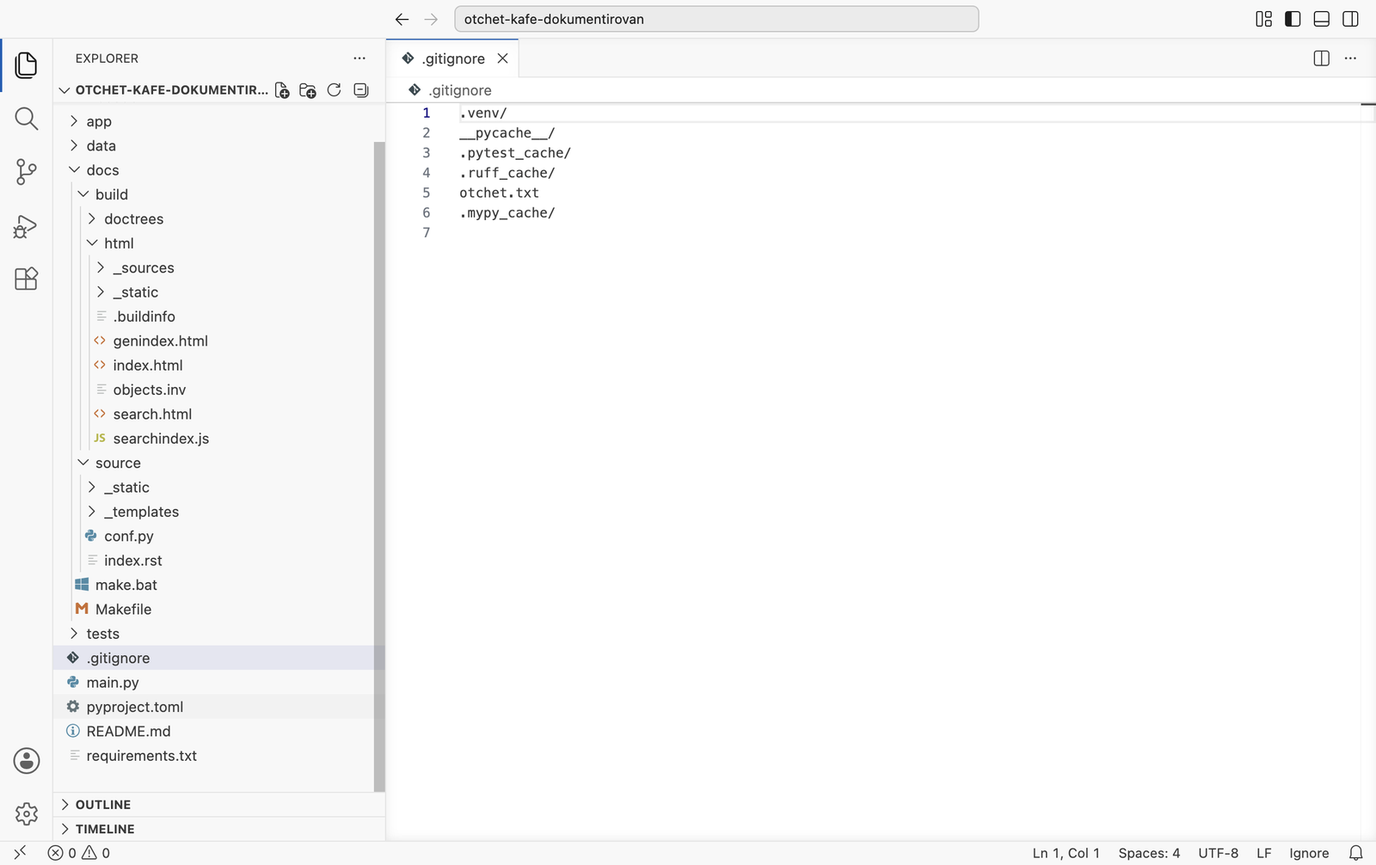
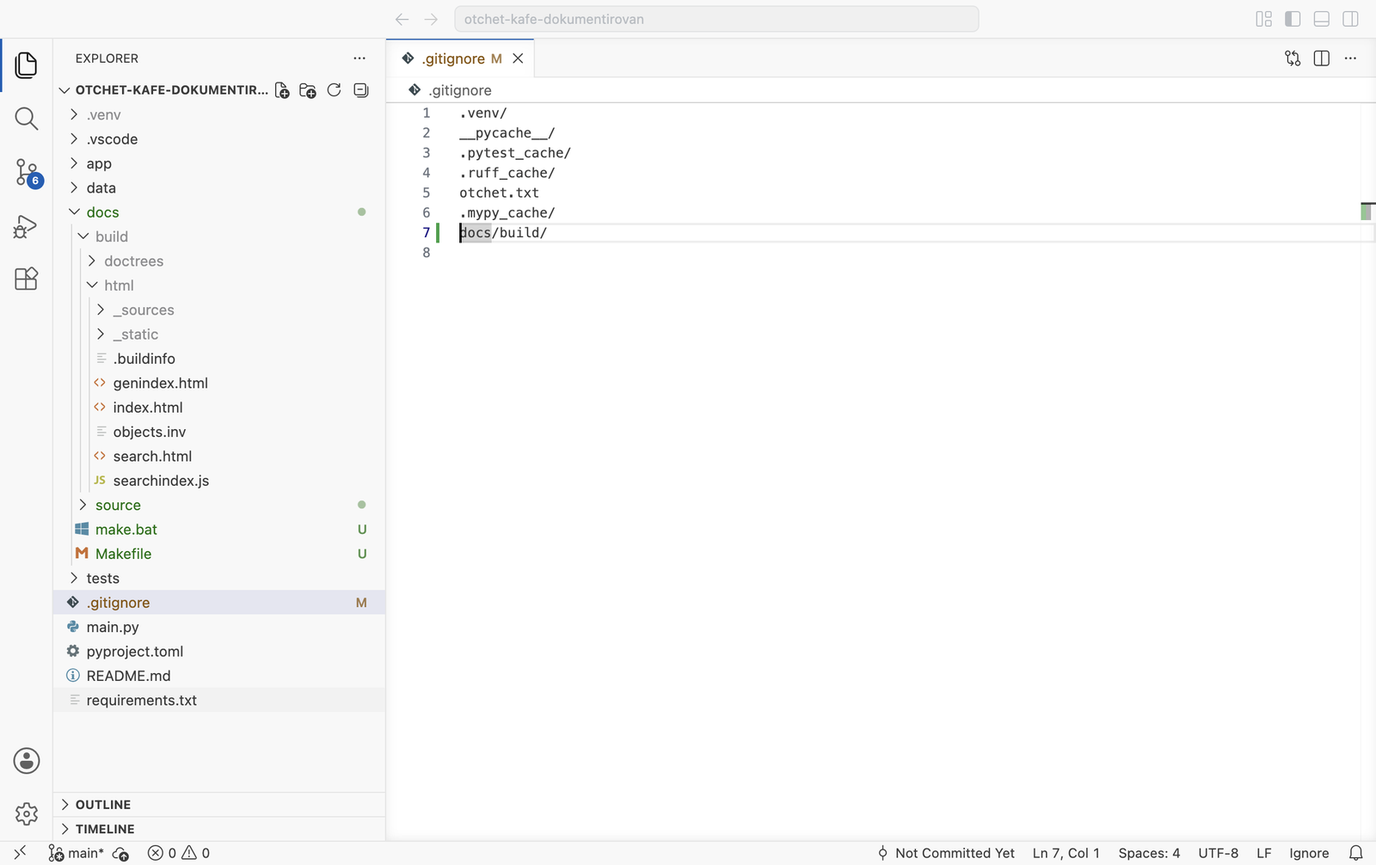
МДК.01.01 тема 04: 4.12 §7 — строка docs/build/ в .gitignore по шагам с кадрами Source Control до и после (в третьем архиве её нет, подпись исправлена); 4.14 §7 — раздел «Указатели» в index.rst и путь к указателю и поиску по шагам

diff --git a/mdk0101-razrabotka-modulei/lessons/04-docstrings-i-dokumentaciya/14-rst-i-apidoc.html b/mdk0101-razrabotka-modulei/lessons/04-docstrings-i-dokumentaciya/14-rst-i-apidoc.html
@@ -24,7 +24,7 @@
         <header class="chapter-head">
           <span class="chapter-num">4.14</span>
           <h1>Файлы .rst, automodule<br>и sphinx-apidoc</h1>
-          <p class="lead">В этой главе на сайте «Отчёта кафе» появляются все пакеты проекта. Сначала пишется своя страница «Запуск и проверки» в разметке reStructuredText и подключается к оглавлению. Затем страницы для всех модулей создаёт программа <code>sphinx-apidoc</code>, и по дороге исправляются два её предупреждения. В конце — как держать эти страницы в согласии с кодом, когда модули добавляют и удаляют. Каждый шаг показан кадром.</p>
+          <p class="lead">В этой главе на сайте «Отчёта кафе» появляются все пакеты проекта. Сначала пишется своя страница «Запуск и проверки» в разметке reStructuredText и подключается к оглавлению. Затем страницы для всех модулей создаёт программа <code>sphinx-apidoc</code>, и по дороге исправляются два её предупреждения. Затем — как держать эти страницы в согласии с кодом, когда модули добавляют и удаляют, и как добавить на главную ссылки на алфавитный указатель и поиск. Каждый шаг показан кадром.</p>
         </header>
 
         <dl class="passport">
@@ -365,15 +365,65 @@
         </div>
 
         <h2 id="s7"><span class="sec">§7</span>Указатель и поиск</h2>
-        <p>Две страницы Sphinx строит по всем описанным объектам без отдельных файлов <code>.rst</code>: алфавитный указатель и поиск. Теперь, когда на сайте весь пакет, они полезны.</p>
-        <figure class="shot">
-          <img src="img/site-14-genindex.png" alt="Алфавитный указатель: буквы сверху, под буквой A метод add класса Shift и модули app">
-          <figcaption>Алфавитный указатель: функции, методы, классы и модули по алфавиту; в скобках — где объект описан. Помогает, когда известно имя функции, а модуль — нет.</figcaption>
-        </figure>
-        <figure class="shot">
-          <img src="img/site-14-search.png" alt="Поиск по слову выручка: найдены страницы пакетов, Запуск и проверки и главная">
-          <figcaption>Поиск по слову «выручка»: найдены пять страниц, в том числе с формами «выручку» и «выручке» — поиск учитывает окончания русских слов.</figcaption>
-        </figure>
+        <p>Кроме страниц из оглавления, Sphinx при каждой сборке строит ещё три: алфавитный указатель <code>genindex.html</code>, список модулей <code>py-modindex.html</code> и поиск <code>search.html</code>. Их видно в проводнике в <code>docs/build/html</code>, но ссылок на указатель и список модулей на сайте нет: мастер Sphinx 9 их не добавляет. Пока на сайте был один модуль, это было незаметно; теперь, когда описан весь пакет, без указателя функцию приходится искать по страницам пакетов. Ссылки добавляют в <code>index.rst</code> сами. Пять шагов.</p>
+        <div class="walk">
+          <div class="walk__step">
+            <p class="walk__head"><span>Добавьте раздел «Указатели» в index.rst</span></p>
+            <div class="walk__body">
+              <p>В конец <code>index.rst</code>, после оглавления, допишите раздел из трёх пунктов:</p>
+              <figure class="code">
+                <figcaption><span>docs/source/index.rst</span><span>в конце файла</span></figcaption>
+<pre>Указатели
+---------
+
+* <span class="f">:ref:</span>`genindex`
+* <span class="f">:ref:</span>`modindex`
+* <span class="f">:ref:</span>`search`</pre>
+              </figure>
+              <figure class="shot">
+                <img src="img/vscode-sphinx-14-index-indices.png" alt="VS Code: index.rst, после оглавления раздел Указатели с тремя пунктами :ref:genindex, :ref:modindex, :ref:search">
+                <figcaption>Строки <code>21</code>–<code>26</code>: заголовок раздела с чертой <code>-</code> и три пункта. Роль <code>:ref:</code> — ссылка на место в документации; <code>genindex</code>, <code>modindex</code> и <code>search</code> — имена трёх страниц, которые Sphinx строит сам. Подписи ссылок он тоже поставит сам, на языке из <code>conf.py</code>.</figcaption>
+              </figure>
+            </div>
+          </div>
+          <div class="walk__step">
+            <p class="walk__head"><span>Соберите</span></p>
+            <div class="walk__body">
+              <figure class="shot">
+                <img src="img/vscode-sphinx-14-build-indices.png" alt="Терминал: сборка с -q, вывод пуст">
+                <figcaption>Вывод пуст: все три имени Sphinx нашёл.</figcaption>
+              </figure>
+            </div>
+          </div>
+          <div class="walk__step">
+            <p class="walk__head"><span>Найдите ссылки на главной странице</span></p>
+            <div class="walk__body">
+              <figure class="shot">
+                <img src="img/site-14-index-links.png" alt="Главная страница: под содержанием раздел Указатели со ссылками Алфавитный указатель, Состав модуля, Поиск">
+                <figcaption>Под оглавлением — раздел «Указатели»: <b>Алфавитный указатель</b>, <b>Состав модуля</b> (список всех модулей пакета) и <b>Поиск</b>.</figcaption>
+              </figure>
+            </div>
+          </div>
+          <div class="walk__step">
+            <p class="walk__head"><span>Откройте алфавитный указатель</span></p>
+            <div class="walk__body">
+              <figure class="shot">
+                <img src="img/site-14-genindex.png" alt="Алфавитный указатель: буквы сверху, под буквой A метод add класса Shift и модули app">
+                <figcaption>Функции, методы, классы и модули по алфавиту; сверху — строка букв для перехода. В скобках после имени — где объект описан: <code>add() (метод app.domain.shift.Shift)</code>. Указатель помогает, когда известно имя функции, а модуль — нет.</figcaption>
+              </figure>
+            </div>
+          </div>
+          <div class="walk__step">
+            <p class="walk__head"><span>Найдите слово через поиск</span></p>
+            <div class="walk__body">
+              <p>Введите слово в поле поиска в колонке слева и нажмите <kbd>Enter</kbd> — или перейдите по ссылке «Поиск» из раздела «Указатели».</p>
+              <figure class="shot">
+                <img src="img/site-14-search.png" alt="Поиск по слову выручка: найдены страницы пакетов, Запуск и проверки и главная">
+                <figcaption>Поиск по слову «выручка»: найдены пять страниц, в том числе с формами «выручку» и «выручке» — поиск учитывает окончания русских слов. Работает без сервера, по файлу <code>searchindex.js</code>.</figcaption>
+              </figure>
+            </div>
+          </div>
+        </div>
 
         <div class="state state--next">
           <b>Что дальше · глава 4.15</b>
@@ -435,7 +485,7 @@
         </div>
 
         <h3>Итог главы</h3>
-        <p>Свою страницу пишут в reStructuredText: заголовки с чертой, списки, блок <code>code-block</code>, врезка <code>note</code>, ссылки на функции ролью <code>:func:</code>. Страница видна на сайте, если её имя стоит в <code>toctree</code>. Страницы для всех модулей создаёт <code>sphinx-apidoc</code>; в курсе её запускают с <code>SPHINX_APIDOC_OPTIONS=members</code> и ключами <code>-f -M</code>, а дерево подключают строкой <code>api/modules</code>. Повтор полей dataclass убирает <code>napoleon_use_ivar = True</code>. После добавления или удаления модуля команду повторяют с <code>-f</code>, а перед сборкой проверяют Ruff: функции без докстринга на сайт не попадают. В главе 4.15 сайт получает новую тему и публикуется на GitHub Pages.</p>
+        <p>Свою страницу пишут в reStructuredText: заголовки с чертой, списки, блок <code>code-block</code>, врезка <code>note</code>, ссылки на функции ролью <code>:func:</code>. Страница видна на сайте, если её имя стоит в <code>toctree</code>. Страницы для всех модулей создаёт <code>sphinx-apidoc</code>; в курсе её запускают с <code>SPHINX_APIDOC_OPTIONS=members</code> и ключами <code>-f -M</code>, а дерево подключают строкой <code>api/modules</code>. Повтор полей dataclass убирает <code>napoleon_use_ivar = True</code>. После добавления или удаления модуля команду повторяют с <code>-f</code>, а перед сборкой проверяют Ruff: функции без докстринга на сайт не попадают. Ссылки на алфавитный указатель, список модулей и поиск добавляют в <code>index.rst</code> ролью <code>:ref:</code> — сам мастер их не пишет. В главе 4.15 сайт получает новую тему и публикуется на GitHub Pages.</p>
 
         <div class="sources">
           <b>Откуда взяты факты</b>

diff --git a/mdk0101-razrabotka-modulei/lessons/04-docstrings-i-dokumentaciya/12-sphinx-pervyy-zapusk.html b/mdk0101-razrabotka-modulei/lessons/04-docstrings-i-dokumentaciya/12-sphinx-pervyy-zapusk.html
@@ -291,15 +291,47 @@
         </div>
 
         <h2 id="s7"><span class="sec">§7</span>Папка docs и репозиторий</h2>
-        <p>Перед первым коммитом нужно решить, что из <code>docs</code> попадёт в Git. <code>docs/source</code>, <code>Makefile</code> и <code>make.bat</code> пишутся руками — их хранят. <code>docs/build</code> получается из них одной командой — её в Git не кладут: каждая сборка меняет в ней десятки файлов. Два шага.</p>
+        <p>Перед первым коммитом нужно решить, что из <code>docs</code> попадёт в Git. <code>docs/source</code>, <code>Makefile</code> и <code>make.bat</code> пишутся руками — их хранят. <code>docs/build</code> получается из них одной командой — её в Git не кладут: каждая сборка меняет в ней десятки файлов, которых никто не писал. Кадры сняты на проекте, который уже лежит в репозитории: один коммит с проектом из главы 4.11 и новая папка <code>docs</code>. Если вы работаете в распакованном архиве, папка не под Git; панель Source Control тогда предложит <b>Initialize Repository</b>, и после этого картина будет та же. Пять шагов.</p>
         <div class="walk">
           <div class="walk__step">
-            <p class="walk__head"><span>Проверьте .gitignore</span></p>
+            <p class="walk__head"><span>Посмотрите изменения в Source Control</span></p>
             <div class="walk__body">
-              <p>Откройте <code>.gitignore</code> в корне проекта.</p>
+              <p>Откройте панель Source Control: значок с ветками на левой полосе или <kbd><span data-os="win linux">Ctrl</span><span data-os="mac">Cmd</span></kbd> + <kbd>Shift</kbd> + <kbd>G</kbd>.</p>
+              <figure class="shot shot--narrow">
+                <img src="img/vscode-sphinx-12-scm-before.png" alt="Source Control: Changes 30, среди них make.bat, Makefile, environment.pickle, index.doctree, .buildinfo, genindex.html, index.html и другие файлы docs/build">
+                <figcaption>В списке <b>Changes</b> — <code>30</code> новых файлов с меткой <code>U</code> (untracked, не отслеживаются). Кроме <code>make.bat</code> и <code>Makefile</code> здесь <code>environment.pickle</code>, <code>index.doctree</code>, <code>genindex.html</code>, <code>index.html</code> — всё из <code>docs/build</code>. Если закоммитить так, результат сборки окажется в репозитории.</figcaption>
+              </figure>
+            </div>
+          </div>
+          <div class="walk__step">
+            <p class="walk__head"><span>Откройте .gitignore</span></p>
+            <div class="walk__body">
               <figure class="shot">
-                <img src="img/vscode-sphinx-12-gitignore.png" alt="VS Code: файл .gitignore, последняя строка docs/build/">
-                <figcaption>Последняя строка — <code>docs/build/</code>: в третьем архиве она уже есть. Если вы работаете в своей папке, допишите её.</figcaption>
+                <img src="img/vscode-sphinx-12-gitignore-before.png" alt="VS Code: файл .gitignore из шести строк: .venv/, __pycache__/, .pytest_cache/, .ruff_cache/, otchet.txt, .mypy_cache/">
+                <figcaption>В <code>.gitignore</code> шесть строк: окружение, кэши Python и проверок, файл отчёта. Строки для <code>docs/build</code> нет — папки сборки до этой главы не было.</figcaption>
+              </figure>
+            </div>
+          </div>
+          <div class="walk__step">
+            <p class="walk__head"><span>Добавьте строку docs/build/</span></p>
+            <div class="walk__body">
+              <p>Допишите в конец <code>docs/build/</code> и сохраните файл. Косая черта в конце означает «папка целиком».</p>
+              <figure class="shot">
+                <img src="img/vscode-sphinx-12-gitignore.png" alt="VS Code: .gitignore, строка 7 docs/build/, у файла в проводнике метка M">
+                <figcaption>Строка <code>7</code> — <code>docs/build/</code>. У <code>.gitignore</code> в проводнике метка <code>M</code> (modified): файл изменён. Папка <code>build</code> в проводнике стала бледной.</figcaption>
+              </figure>
+            </div>
+          </div>
+          <div class="walk__step">
+            <p class="walk__head"><span>Проверьте проводник и Source Control</span></p>
+            <div class="walk__body">
+              <figure class="shot shot--narrow">
+                <img src="img/vscode-sphinx-12-build-ignored.png" alt="Проводник: папка docs/build и всё в ней показаны бледным без меток, make.bat и Makefile с меткой U">
+                <figcaption>В проводнике <code>build</code> и всё внутри бледные и без меток: так VS Code показывает файлы, которые Git пропускает. У <code>make.bat</code> и <code>Makefile</code> по-прежнему <code>U</code> — они пойдут в коммит.</figcaption>
+              </figure>
+              <figure class="shot shot--narrow">
+                <img src="img/vscode-sphinx-12-scm-after.png" alt="Source Control: Changes 6 — .gitignore с меткой M, make.bat, Makefile, conf.py, index.rst, .gitkeep с меткой U">
+                <figcaption>В <b>Changes</b> теперь <code>6</code>: изменённый <code>.gitignore</code> и пять файлов, которые пишут руками, — <code>make.bat</code>, <code>Makefile</code>, <code>conf.py</code>, <code>index.rst</code> и <code>.gitkeep</code> из следующего шага. Файлов из <code>docs/build</code> в списке нет.</figcaption>
               </figure>
             </div>
           </div>
@@ -309,7 +341,7 @@
               <p>Папка <code>docs/source/_static</code> пуста, а пустые папки Git не хранит. В копии проекта, скачанной из репозитория, её не будет, и сборка напечатает <code>WARNING: элемент html_static_path '_static' не существует</code>. Чтобы папка попала в репозиторий, в неё кладут пустой файл: правая кнопка на <code>_static</code> → <b>New File</b> → <code>.gitkeep</code>.</p>
               <figure class="shot">
                 <img src="img/vscode-sphinx-12-gitkeep.png" alt="VS Code: в проводнике в папке docs/source/_static появился файл .gitkeep, он открыт и пуст">
-                <figcaption>В <code>_static</code> появился пустой <code>.gitkeep</code>. Для Git имя ничего не значит; это соглашение: файл держит папку в репозитории.</figcaption>
+                <figcaption>В <code>_static</code> появился пустой <code>.gitkeep</code>. Для Git имя ничего не значит; это соглашение: файл держит папку в репозитории. В Source Control он стоит последним в списке из шести.</figcaption>
               </figure>
             </div>
           </div>
@@ -317,7 +349,7 @@
 
         <div class="milestone">
           <b>Итог главы · сайт собирается</b>
-          <p>В проекте есть папка <code>docs</code>. Команда <code>sphinx-build -M html docs/source docs/build</code> отвечает <code>сборка успешна.</code>, главная страница со своим текстом открывается в браузере. <code>docs/build</code> исключена из Git, в <code>_static</code> лежит <code>.gitkeep</code>.</p>
+          <p>В проекте есть папка <code>docs</code>. Команда <code>sphinx-build -M html docs/source docs/build</code> отвечает <code>сборка успешна.</code>, главная страница со своим текстом открывается в браузере. В <code>.gitignore</code> добавлена строка <code>docs/build/</code>, и в Source Control из <code>docs</code> видны только файлы, которые пишут руками; в <code>_static</code> лежит <code>.gitkeep</code>.</p>
         </div>
 
         <div class="state state--next">
@@ -381,7 +413,7 @@
         </div>
 
         <h3>Итог главы</h3>
-        <p>Sphinx собирает сайт документации из файлов reStructuredText и докстрингов и ставится в окружение проекта. Мастер <code>sphinx-quickstart docs</code> создаёт папки <code>docs/source</code> и <code>docs/build</code>, файл настроек <code>conf.py</code> и главную страницу <code>index.rst</code>. Команда <code>sphinx-build -M html docs/source docs/build</code> собирает сайт в <code>docs/build/html</code>, он открывается в браузере с диска. Повторная сборка пересобирает только изменённые файлы, ключ <code>-E</code> — все. В репозиторий идут исходники документации: <code>docs/build</code> исключена в <code>.gitignore</code>, пустую <code>_static</code> держит файл <code>.gitkeep</code>. В главе 4.13 на сайт выводятся докстринги модулей.</p>
+        <p>Sphinx собирает сайт документации из файлов reStructuredText и докстрингов и ставится в окружение проекта. Мастер <code>sphinx-quickstart docs</code> создаёт папки <code>docs/source</code> и <code>docs/build</code>, файл настроек <code>conf.py</code> и главную страницу <code>index.rst</code>. Команда <code>sphinx-build -M html docs/source docs/build</code> собирает сайт в <code>docs/build/html</code>, он открывается в браузере с диска. Повторная сборка пересобирает только изменённые файлы, ключ <code>-E</code> — все. В репозиторий идут исходники документации: строка <code>docs/build/</code> в <code>.gitignore</code> убирает результат сборки из Source Control, пустую <code>_static</code> держит файл <code>.gitkeep</code>. В главе 4.13 на сайт выводятся докстринги модулей.</p>
 
         <div class="sources">
           <b>Откуда взяты факты</b>

diff --git a/mdk0101-razrabotka-modulei/lessons/04-docstrings-i-dokumentaciya/16-praktika-sphinx.html b/mdk0101-razrabotka-modulei/lessons/04-docstrings-i-dokumentaciya/16-praktika-sphinx.html
@@ -171,7 +171,7 @@
           <div class="walk__step">
             <p class="walk__head"><span>Добавьте страницу о запуске и тему</span></p>
             <div class="walk__body">
-              <p>Создайте <code>usage.rst</code> по образцу главы 4.14, §1, поставьте его первым в оглавлении. Замените заголовок и абзац в <code>index.rst</code> на свои. Задайте <code>html_theme = 'furo'</code> и <code>html_title</code>, создайте <code>docs/requirements.txt</code>. Финальная проверка — строгая сборка: <code>sphinx-build -M html docs/source docs/build -E -W --keep-going</code>, итог — <code>сборка успешна.</code></p>
+              <p>Создайте <code>usage.rst</code> по образцу главы 4.14, §1, поставьте его первым в оглавлении. Замените заголовок и абзац в <code>index.rst</code> на свои и добавьте раздел «Указатели» из главы 4.14, §7. Задайте <code>html_theme = 'furo'</code> и <code>html_title</code>, создайте <code>docs/requirements.txt</code>. Финальная проверка — строгая сборка: <code>sphinx-build -M html docs/source docs/build -E -W --keep-going</code>, итог — <code>сборка успешна.</code></p>
             </div>
           </div>
         </div>

diff --git a/mdk0101-razrabotka-modulei/lessons/04-docstrings-i-dokumentaciya/shots/shoot_sphinx.py b/mdk0101-razrabotka-modulei/lessons/04-docstrings-i-dokumentaciya/shots/shoot_sphinx.py
@@ -161,7 +161,9 @@ async def st_ch12(e: Editor) -> None:
     edit("docs/source/index.rst", ":caption: Contents:", ":caption: Содержание:")
     await show(e, "docs/source/index.rst", "12-index-edited")
     await term(e, "12-build-edited", BUILD, 8.0)
-    # .gitignore и .gitkeep.
+    # .gitignore: строки docs/build/ в третьем архиве нет — её добавляют.
+    await show(e, ".gitignore", "12-gitignore-before")
+    edit(".gitignore", ".mypy_cache/\n", ".mypy_cache/\ndocs/build/\n")
     await show(e, ".gitignore", "12-gitignore")
     write("docs/source/_static/.gitkeep", "")
     await show(e, "docs/source/_static/.gitkeep", "12-gitkeep")
@@ -232,6 +234,18 @@ async def st_ch14(e: Editor) -> None:
     (P / "app/utils/percent.py").unlink()
     await term(e, "14-stale", "sphinx-apidoc -o docs/source/api app && " + BUILD + " -q -E", 12.0)
     await term(e, "14-stale-fixed", APIDOC + " && " + BUILD + " -q -E", 12.0)
+    await st_indices(e)
+
+
+INDICES = """
+
+Указатели
+---------
+
+* :ref:`genindex`
+* :ref:`modindex`
+* :ref:`search`
+"""
 
 
 PERCENT = '''"""Проценты от суммы."""
@@ -269,6 +283,57 @@ async def st_ch15(e: Editor) -> None:
     write(".github/workflows/docs.yml", sr.WORKFLOW)
     await show(e, ".github/workflows/docs.yml", "15-workflow")
     await term(e, "15-strict", BUILD + " -E -W --keep-going 2>&1 | tail -4", 14.0)
+
+
+async def st_indices(e: Editor) -> None:
+    """4.14 §7: ссылки на указатель и поиск в index.rst."""
+    if "genindex" not in (P / "docs/source/index.rst").read_text(encoding="utf-8"):
+        (P / "docs/source/index.rst").write_text(
+            (P / "docs/source/index.rst").read_text(encoding="utf-8").rstrip("\n") + "\n" + INDICES,
+            encoding="utf-8")
+    await show(e, "docs/source/index.rst", "14-index-indices")
+    await term(e, "14-build-indices", BUILD + " -q", 10.0)
+
+
+GIT = Path("/private/tmp/student-sphinx-git/otchet-kafe-dokumentirovan")
+
+
+async def side(e: Editor, name: str) -> None:
+    """Кадр боковой панели (проводник или Source Control) по её границам."""
+    await sp.park(e)
+    r = await e.rect(".part.sidebar")
+    await e.shot(f"{RAW}/{name}.png", clip=[r[0], r[1], r[2], r[3]])
+
+
+async def st_git12(e: Editor) -> None:
+    """4.12 §7 на копии проекта под Git: docs/build до и после строки в .gitignore.
+
+    Перед стадией редактор запускают на GIT (`launch(str(GIT))`): там проект
+    закоммичен до главы 4.12, а docs собрана, как к концу главы.
+    """
+    gi = GIT / ".gitignore"
+    text = gi.read_text(encoding="utf-8").replace("docs/build/\n", "")
+    gi.write_text(text, encoding="utf-8")
+    await sp.reset(e)
+    await e.palette("Git: Refresh", 3.0)
+    await e.palette("View: Show Source Control", 2.0)
+    await side(e, "12-scm-before")
+    await sp.reset(e)
+    await sp.open_file(e, ".gitignore", 3.0)
+    await win(e, "12-gitignore-before")
+    gi.write_text(text + "docs/build/\n", encoding="utf-8")
+    await asyncio.sleep(2.0)
+    await e.palette("File: Revert File", 1.0)
+    await sp.goto(e, 7)
+    await e.palette("Git: Refresh", 4.0)
+    await win(e, "12-gitignore")
+    await sp.open_file(e, "docs/build/html/index.html", 3.0)
+    await e.palette("File: Reveal Active File in Explorer View", 1.5)
+    await e.palette("View: Close All Editors", 0.8)
+    await e.palette("View: Show Explorer", 1.0)
+    await side(e, "12-build-ignored")
+    await e.palette("View: Show Source Control", 2.5)
+    await side(e, "12-scm-after")
 
 
 async def st_wf(e: Editor) -> None:

diff --git a/mdk0101-razrabotka-modulei/lessons/04-docstrings-i-dokumentaciya/shots/sphinx_run.py b/mdk0101-razrabotka-modulei/lessons/04-docstrings-i-dokumentaciya/shots/sphinx_run.py
@@ -252,6 +252,11 @@ def ch14() -> None:
     save("docs/source/api/app.services.rst", "14-app.services-members.rst")
     build("14-apidoc-clean", "-q", "-E")
     shot("14-apidoc-domain", "api/app.domain.html", 900)
+    # Ссылки на указатель и поиск: мастер Sphinx 9 их не пишет, добавляют руками.
+    edit("docs/source/index.rst", "   api/modules\n", "   api/modules\n\nУказатели\n---------\n\n"
+         "* :ref:`genindex`\n* :ref:`modindex`\n* :ref:`search`\n")
+    build("14-indices", "-q")
+    shot("14-index-links", "index.html", 640)
     shot("14-genindex", "genindex.html", 900)
     shot("14-search", "search.html?q=выручка", 780)
     # Строгий режим ссылок на всём сайте: внешние типы и ошибка в Returns у format_kopeks.
